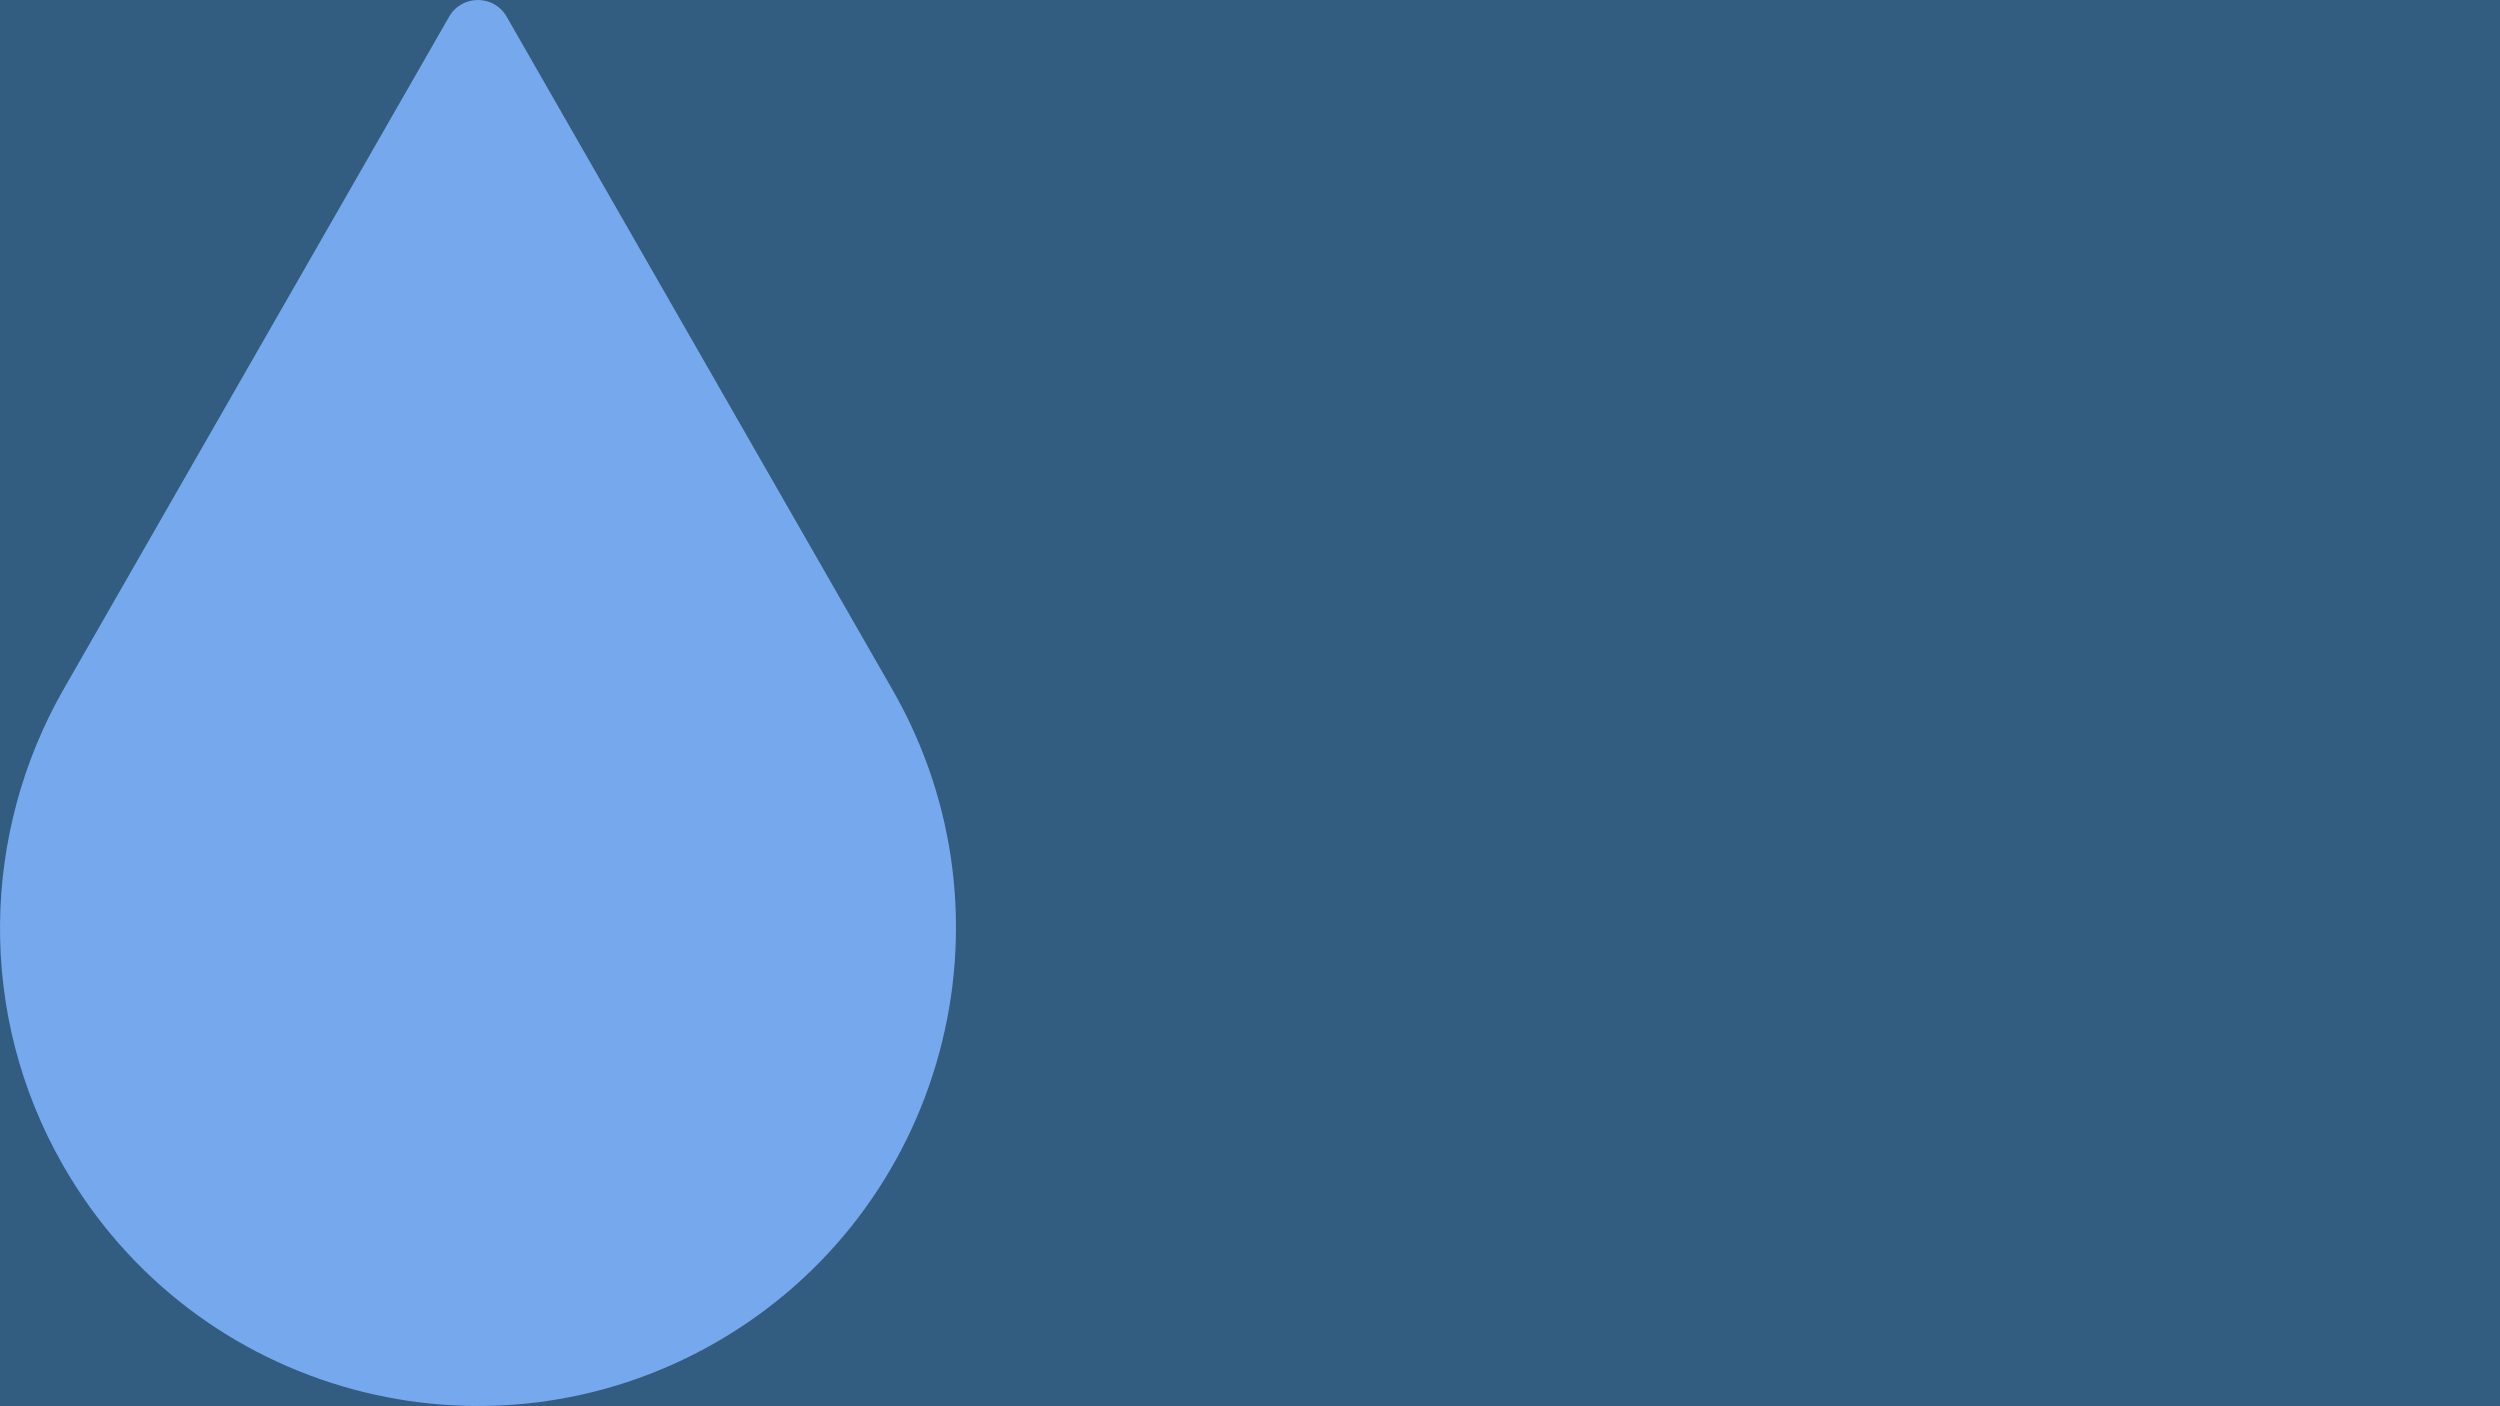
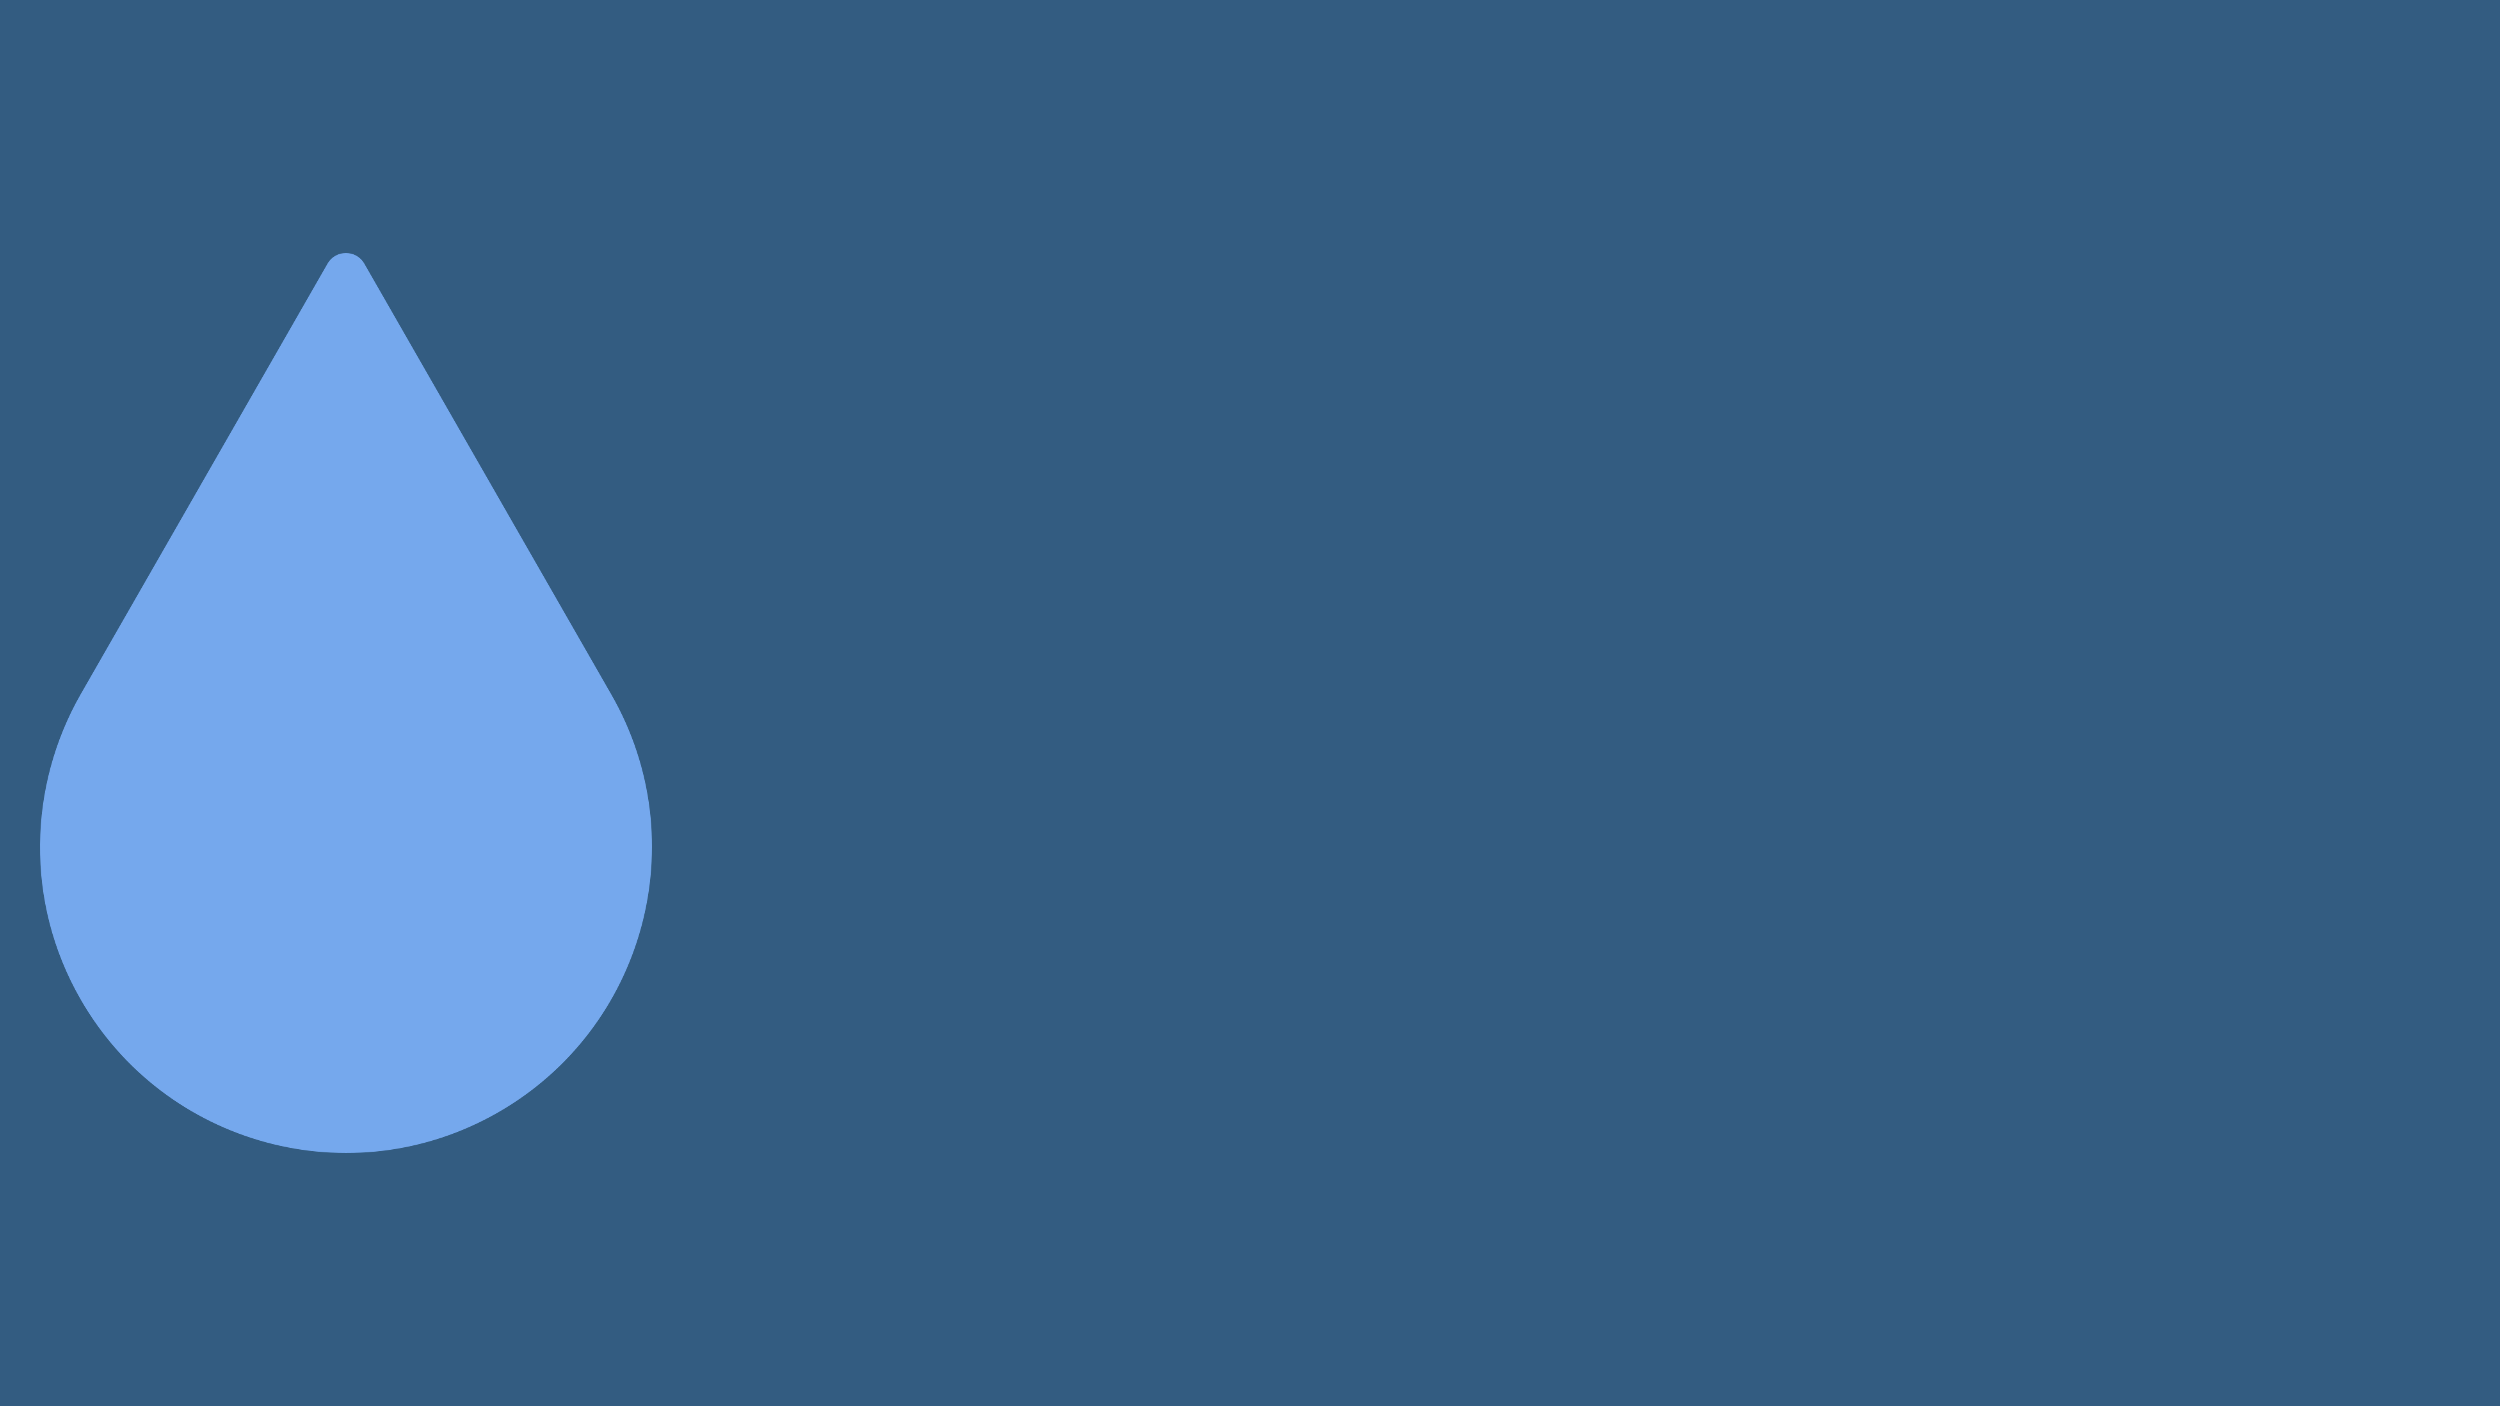
added backgrounds, tweaked js

Changed region(s): [[0.0, 0.0, 0.4056, 1.0], [0.0312, 0.3976, 0.0624, 0.4893]]

diff --git a/js/weather.js b/js/weather.js
@@ -24,8 +24,7 @@ function getLocation() {
 function getCoordinates(position) {
   currentLat = (position.coords.latitude).toFixed(2);
   currentLong = (position.coords.longitude).toFixed(2);
-  //currentLat = 36.16;
-  //currentLong = -115.13;
+
   path = 	"http://api.openweathermap.org/data/2.5/weather?lat=" +
           currentLat +
           "&lon=" +
@@ -68,7 +67,11 @@ function getWeather(){
     //location
     var cityPath = "http://nominatim.openstreetmap.org/reverse?format=json&lat=" + currentLat + "&lon=" + currentLong;
     $.getJSON(cityPath,function(json){
-      $(".location").html("<span class='glyphicon glyphicon-map-marker'></span> " + json.address.suburb);
+      if (json.address.suburb) {
+        $(".location").html("<span class='glyphicon glyphicon-map-marker'></span> " + json.address.suburb);
+      } else {
+        $(".location").html("<span class='glyphicon glyphicon-map-marker'></span> " + weather.name);
+      }
     });
 
     //temperature
@@ -80,47 +83,60 @@ function getWeather(){
     //change background and icon according to weather
     switch (json.weather[0].icon) {
       case "01d":
-      case "01n":
         //change background
-        bg.className = "sunny";
+        bg.className = "clear";
         //change icon
         $(".icon").attr("data-icon", "B");
         break;
+      case "01n":
+        bg.className = "clear-n";
+        $(".icon").attr("data-icon", "C");
+        break;
       case "02d":
+        bg.className = "partlyCloudy";
+        $(".icon").attr("data-icon", "H");
+        break;
       case "02n":
+        bg.className = "partlyCloudy-n";
+        $(".icon").attr("data-icon", "I");
+        break;
       case "03d":
-      case "03n":
-      case "50d":
-      case "50n":
-        //change background
         bg.className = "cloudy";
-        //change icon
+        $(".icon").attr("data-icon", "N");
+        break;
+      case "03n":
+        bg.className = "cloudy-n";
         $(".icon").attr("data-icon", "N");
         break;
       case "04d":
-      case "04n":
-        //change background
         bg.className = "cloudy";
-        //change icon
+        $(".icon").attr("data-icon", "N");
+        break;
+      case "04n":
+        bg.className = "cloudy-n";
         $(".icon").attr("data-icon", "Y");
         break;
       case "09d":
       case "09n":
       case "10d":
       case "10n":
+        bg.className = "rainy";
+        $(".icon").attr("data-icon", "R");
+        break;
       case "11d":
       case "11n":
-        //change background
-        bg.className = "rainy";
-        //change icon
-        $(".icon").attr("data-icon", "R");
+        bg.className = "lightning";
+        $(".icon").attr("data-icon", "Z");
         break;
       case "13d":
       case "13n":
-        //change background
         bg.className = "snowy";
-        //change icon
         $(".icon").attr("data-icon", "X");
+        break;
+      case "50d":
+      case "50n":
+        bg.className = "foggy";
+        $(".icon").attr("data-icon", "M");
         break;
     } //end of switch
 

diff --git a/css/stylesheet.css b/css/stylesheet.css
@@ -24,6 +24,12 @@
   color: white;
 }
 
+@media (max-width: 500px) {
+  .weatherBoxRow {
+    background-color: RGBA(0, 0, 0, 0.19);
+  }
+}
+
 html,
 body {
 	width: 100%;
@@ -52,6 +58,8 @@ p {
 .weatherBoxRow {
   width: 100%;
   margin: 0 auto;
+  padding: 20px;
+  border-radius: 2%;
 }
 
 .temperature {
@@ -97,26 +105,68 @@ p {
 
 /* BACKGROUNDS */
 
-.preWeather {
-  background-image: url("../img/default.png");
+.welcome {
+  background-image: url("../img/welcome.png");
 	background-size: cover;
 	background-repeat: no-repeat;
 }
 
-.sunny {
-	background-image: url("../img/sun.png");
+.welcome-n {
+  background-image: url("../img/welcome-n.png");
+	background-size: cover;
+	background-repeat: no-repeat;
+}
+
+.clear {
+	background-image: url("../img/clear.png");
+	background-size: cover;
+	background-repeat: no-repeat;
+}
+
+.clear-n {
+	background-image: url("../img/clear-n.png");
 	background-size: cover;
 	background-repeat: no-repeat;
 }
 
 .cloudy {
-	background-image: url("../img/cloud.png");
+	background-image: url("../img/cloudy.png");
+	background-size: cover;
+	background-repeat: no-repeat;
+}
+
+.cloudy-n {
+	background-image: url("../img/cloudy-n.png");
+	background-size: cover;
+	background-repeat: no-repeat;
+}
+
+.foggy {
+	background-image: url("../img/foggy.png");
+	background-size: cover;
+	background-repeat: no-repeat;
+}
+
+.partlyCloudy {
+	background-image: url("../img/partlyCloudy.png");
+	background-size: cover;
+	background-repeat: no-repeat;
+}
+
+.partlyCloudy-n {
+	background-image: url("../img/partlyCloudy-n.png");
 	background-size: cover;
 	background-repeat: no-repeat;
 }
 
 .rainy {
 	background-image: url("../img/rain.png");
+	background-size: cover;
+	background-repeat: no-repeat;
+}
+
+.lightning {
+	background-image: url("../img/lightning.png");
 	background-size: cover;
 	background-repeat: no-repeat;
 }

diff --git a/index.html b/index.html
@@ -19,7 +19,7 @@
 
 </head>
 
-<body id="bg" class="preWeather">
+<body id="bg" class="welcome">
 
 	<div id="content" class="container-fluid">
 
